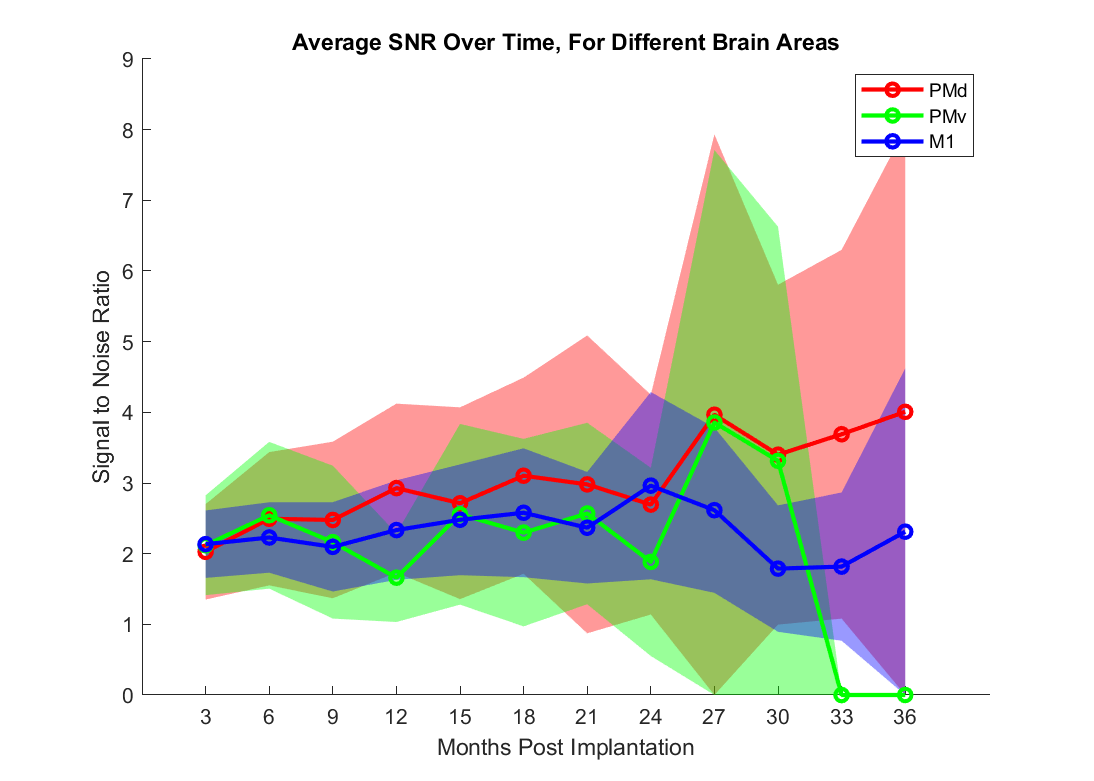
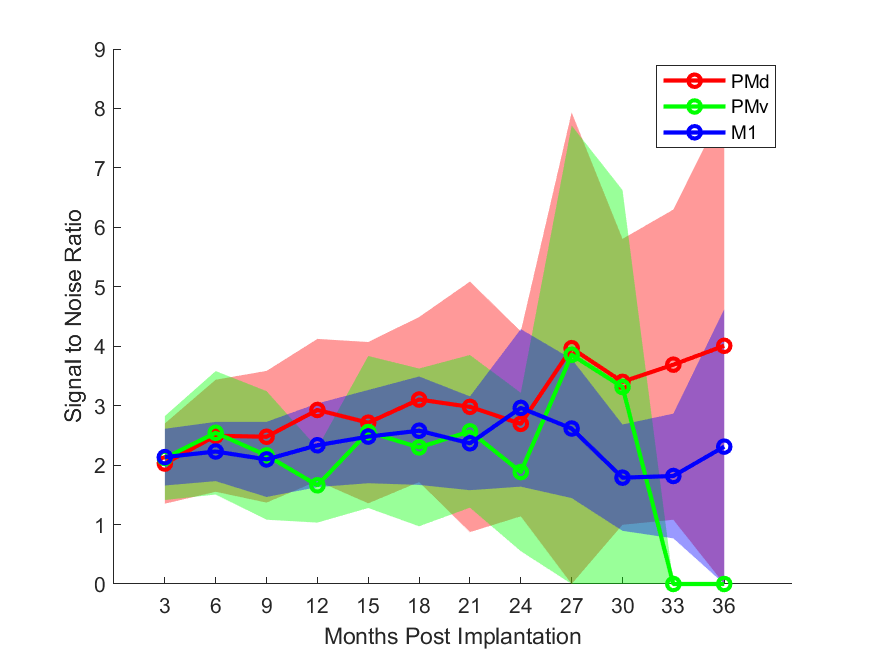
remove figure titles and replace with letters

diff --git a/code/paper_figures_code/figure_two.m b/code/paper_figures_code/figure_two.m
@@ -87,7 +87,7 @@ box off
 grid on
 xlabel('Days Post Implantation');
 ylabel('Channel Yield (proportion of total number)');
-title('Average Array Yield Over Time');
+title('A','units','normalized', 'Position', [-0.1,1.05,1]);
 
 
 %inset plot
@@ -96,6 +96,7 @@ subplot(2,4,4); hold on;
 patch([1:length(avg_channels) fliplr(1:length(avg_channels))],[avg_channels+std_err_channels fliplr(avg_channels-std_err_channels)],patch_color,'edgecolor','none')
 plot(avg_channels,'linewidth',2,'Color',colors(1,:));
 xlim([0 30])
+title('B','units','normalized', 'Position', [-0.1,1.05,1]);
 
 box off
 xlabel('days post implantation');
@@ -168,7 +169,7 @@ box off
 grid on
 xlabel('days post implantation');
 ylabel('SNR');
-title('mean SNR over time');
+title('C','units','normalized', 'Position', [-0.1,1.05,1]);
 
 
 %inset plot
@@ -177,6 +178,7 @@ subplot(2,4,8); hold on;
 patch([1:length(avg_SNR) fliplr(1:length(avg_SNR))],[avg_SNR-std_err_SNR fliplr(avg_SNR+std_err_SNR)],patch_color,'edgecolor','none')
 plot(avg_SNR,'linewidth',2,'Color',colors(2,:));
 xlim([0 30])
+title('D','units','normalized', 'Position', [-0.1,1.05,1]);
 
 box off
 xlabel('days post implantation');

diff --git a/code/paper_figures_code/figure_five.m b/code/paper_figures_code/figure_five.m
@@ -26,7 +26,7 @@ xlabel('Portion of Total Channels')
 ylabel('Number of Arrays')
 xticks(0:.1:1)
 xlim([0 1.1])
-title('Distribution of max proportion of electrodes with units over arrays')
+title('A','units','normalized', 'Position', [-0.1,1.05,1]);
 box off
 
 clear array_max_good_channels
@@ -47,7 +47,7 @@ xlabel('Portion of Total Channels')
 ylabel('Number of Arrays')
 xticks(0:.1:1)
 xlim([0 1.1])
-title('Distribution of max proportion of electrodes over M1 arrays')
+title('B','units','normalized', 'Position', [-0.1,1.05,1]);
 box off
 
 clear array_max_good_channels
@@ -69,7 +69,7 @@ xlabel('Portion of Total Channels')
 ylabel('Number of Arrays')
 xticks(0:.1:1)
 xlim([0 1.1])
-title('Distribution of max proportion of electrodes over Premotor arrays')
+title('C','units','normalized', 'Position', [-0.1,1.05,1]);
 box off
 
 clear array_max_good_channels

diff --git a/code/paper_figures_code/figure_one.m b/code/paper_figures_code/figure_one.m
@@ -58,8 +58,7 @@ legend([plots{:}],plot_names,'location','northeastoutside')
 
 grid on
 xlabel('Days Post Implantation');
-title('Long-Lasting Array Channel Yield Over Time');
-
+title('A','units','normalized', 'Position', [-0.1,1.05,1]);
 clear plot_names
 clear plots
 %% Figure 1b. Example spike waveforms at specific time points from
@@ -74,6 +73,7 @@ clear plots
 subplot(2,3,4); hold on;
 
 t = text(0.1,.5,{'waveform', 'examples','go here'});
+title('B','units','normalized', 'Position', [-0.1,1.05,1]);
 t.FontSize = 24;
 
 
@@ -120,8 +120,7 @@ xlim([0 max([array_data.relative_days])]);
 box off
 
 legend([plots{:}],plot_names,'location','northeastoutside')
-title('Long-Lasting Array SNR Over Time');
-
+title('C','units','normalized', 'Position', [-0.1,1.05,1]);
 grid on
 xlabel('Days Post Implantation');
 

diff --git a/code/paper_figures_code/figure_three.m b/code/paper_figures_code/figure_three.m
@@ -63,8 +63,6 @@ hold off
 hold(ax1, 'on');
 xlabel('days post implant (days)');
 ylabel('Implant Order (By Lifetime Length)');
-title('Summary heat map: array order/DPI/num channels(size)/SNR(color)');
-xlim([0 max([array_data.relative_days])])
 xticks(0:250:3250)
 ylim([0 max(implant_order)+1])
 colormap(jet);

diff --git a/code/paper_figures_code/figure_six.m b/code/paper_figures_code/figure_six.m
@@ -80,8 +80,6 @@ xlabel('Months Post Implantation')
 xticks(time_points_in_days/one_month);
 legend([plots{:}],areas) %legend only for the lines, not the patches
 ylabel('Signal to Noise Ratio')
-title('Average SNR Over Time, For Different Brain Areas')
-set(gcf,'pos',[1150,400,700,500])
 box off
 
 %% Saving

diff --git a/code/paper_figures_code/figure_four.m b/code/paper_figures_code/figure_four.m
@@ -78,7 +78,6 @@ xlabel('Months Post Implantation')
 legend()
 xticks(time_points_in_days/one_month);
 ylabel('Portion of Arrays with Certain Yields')
-title('Proportion of arrays with certain yield over different time points')
 set(gcf,'pos',[1150,400,700,500])
 box off
 
